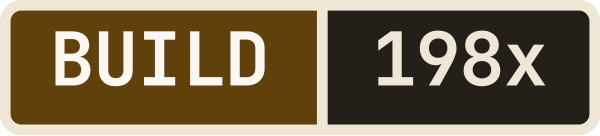
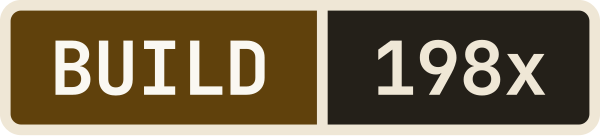
Centre the type on cap height instead of a text baseline
The names are uppercase and the suffix is digits, so nothing descends.
Sitting them on a text baseline left 0.34em above the caps and 0.59em
below, so the type rode high by 0.125em -- 6px on a 48px plate. Measured
from the rendered pixels: ASM had 36px above the caps and 58px below.

This predates the outlines. The <text> version used the same 0.74em
baseline, and the span version before it centred the em box, which puts
caps high for the same reason: both reserve room for descenders that
uppercase never uses.

Centring the cap-height band gives 0.475em on each side. Verified in the
raster: ASM now 47/47, BUILD 41/41.

Centred on cap height rather than on each name's own ink, so all nine
share a baseline. Q's tail and the overshoot on round glyphs would
otherwise shift a plate relative to its siblings -- and the whole point
of the plate is that nine marks read as one set.

capHeight moves into glyphs.json so the component and the generator
centre identically. Rendered all nine at 14/20/32/48px to confirm it
holds at the size the nav actually uses.

Changed region(s): [[0.63, 0.2059, 0.93, 0.7059], [0.09, 0.2059, 0.45, 0.7059]]

diff --git a/wordmarks/generate.py b/wordmarks/generate.py
@@ -40,6 +40,7 @@ _DATA = json.loads((pathlib.Path(__file__).parent / "glyphs.json").read_text())
 UPEM = _DATA["upem"]          # JetBrains Mono units per em
 ADV_UNITS = _DATA["advance"]  # its advance, the 0.6em the geometry above assumes
 GLYPHS = _DATA["glyphs"]
+CAP = _DATA["capHeight"] / UPEM   # 0.73 em — what the type is centred on
 
 F = 48.0            # cell type size
 ADV = 0.6 * F       # JetBrains Mono advance width
@@ -80,7 +81,12 @@ def plate(prefix: str, fill: str, theme: dict) -> str:
     w = w_l + w_r + STROKE          # one shared divider line
     ow, oh = w + STROKE, h + STROKE  # room for the outer stroke
     o = STROKE / 2
-    baseline = o + PAD_Y + F * 0.74  # cap height sits ~0.74em below the top
+    # Centre the cap-height band in the cell, rather than sitting the type on a
+    # text baseline. The names are uppercase with no descenders, so a text
+    # baseline leaves 0.34em above the caps and 0.59em below them -- a 0.125em
+    # list that reads as the type riding high. Centring on cap height rather
+    # than on each string's ink keeps all nine plates on one baseline.
+    baseline = o + (h + CAP * F) / 2
     return f'''<svg xmlns="http://www.w3.org/2000/svg" width="{ow:.1f}" height="{oh:.1f}"
      viewBox="0 0 {ow:.1f} {oh:.1f}" role="img" aria-label="{prefix.capitalize()}198x">
   <title>{prefix.capitalize()}198x</title>

diff --git a/WORDMARK.md b/WORDMARK.md
@@ -43,6 +43,17 @@ literal values.
 | Frame and divider | `2px` at `F = 14`, i.e. `F / 7` |
 | Corner radius | `3px` at `F = 14` |
 | Letter-spacing | `-0.01em` |
+| Vertical alignment | cap-height band centred in the cell |
+
+**The type is centred on cap height, not sat on a text baseline.** The names are
+uppercase and the suffix is digits, so nothing descends. A text baseline leaves
+`0.34em` above the caps and `0.59em` below them — the type rides high by
+`0.125em`, which is 6px on a 48px plate. Centring the cap band puts `0.475em`
+on both sides.
+
+Centred on cap height rather than on each name's own ink, so all nine sit on one
+baseline: `Q`'s tail or a round glyph's overshoot must not shift a plate relative
+to its siblings.
 
 ## Colours
 
